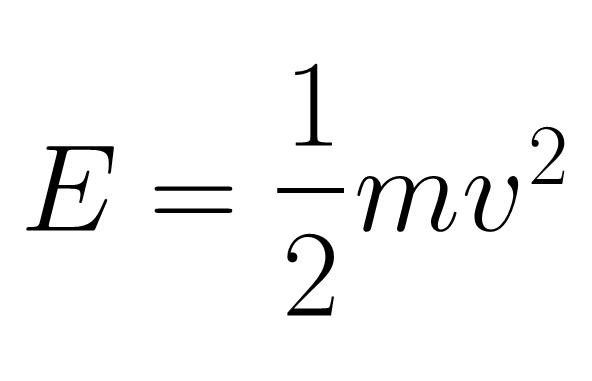
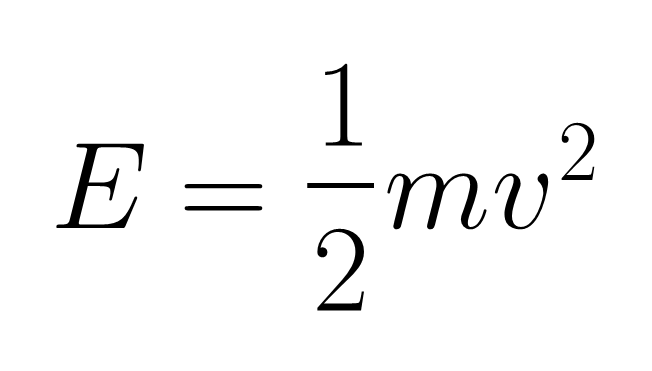
Tried to fix brackets

diff --git a/MathematicsTypesetting/PNGExporter.cs b/MathematicsTypesetting/PNGExporter.cs
@@ -92,12 +92,35 @@ namespace MathematicsTypesetting
         {
             ExportElement(graphics, bracketExpression.InnerExpression);
 
-            var w = Paths.GetBracketLength().Quantity;
+            var g1 = _fontLoader.GetGlyph("normal", "none", "(");
+            var g2 = _fontLoader.GetGlyph("normal", "none", ")");
+
+            var w = g1.Width;
             var h = bracketExpression.InnerExpression.OuterHeight;
 
-            var p1 = Paths.GetBracketPath(new PointF((float)(bracketExpression.Position.X.Quantity + w * 0.25), (float)bracketExpression.Position.Y.Quantity), (float)h.Quantity);
+            var x1 = (float)(bracketExpression.Position.X.Quantity );
+            var y1 = (float)bracketExpression.Position.Y.Quantity;
 
-            var p2 = Paths.GetBracketPath(new PointF((float)(bracketExpression.Position.X.Quantity + w * 1.75 + bracketExpression.InnerExpression.OuterWidth.Quantity), (float)bracketExpression.Position.Y.Quantity), (float)h.Quantity, ")");
+            var x2 = (float)(bracketExpression.Position.X.Quantity  + bracketExpression.InnerExpression.OuterWidth.Quantity);
+            var y2 = (float)bracketExpression.Position.Y.Quantity;
+
+            var p1 = _fontLoader.GetPathForGlyph(g1); // Paths.GetBracketPath(new PointF(, , (float)h.Quantity);
+
+            var p2 = _fontLoader.GetPathForGlyph(g2); // Paths.GetBracketPath(new PointF(, ), (float)h.Quantity, ")");
+            
+            var m1 = new System.Drawing.Drawing2D.Matrix();
+            var m2 = new System.Drawing.Drawing2D.Matrix();
+
+            var sf = (float)h.Quantity /(1.7f * 20.0f);
+
+            m1.Scale(sf, sf);
+            m1.Translate(x1 / sf, y1 / sf + 25f);
+
+            m2.Scale(sf, sf);
+            m2.Translate(x2 / sf, y2 / sf + 25f);
+
+            p1.Transform(m1);
+            p2.Transform(m2);
 
             graphics.FillPath(Brushes.Black, p1);
             graphics.FillPath(Brushes.Black, p2);

diff --git a/MathematicsTypesetting/Typesetter.cs b/MathematicsTypesetting/Typesetter.cs
@@ -17,7 +17,10 @@ namespace MathematicsTypesetting
 
         public void TypesetDocument(Document document)
         {
-            document.MainElement.OuterMargin = 20;
+            document.MainElement.OuterMargin.Top = 20;
+            document.MainElement.OuterMargin.Bottom = 20;
+            document.MainElement.OuterMargin.Left = 50;
+            document.MainElement.OuterMargin.Right = 50;
 
             SetElementSize(document.MainElement);
             SetElementPosition(new Position(), document.MainElement);

diff --git a/MathematicsTypesetting.Fonts/FontLoader.cs b/MathematicsTypesetting.Fonts/FontLoader.cs
@@ -106,7 +106,7 @@ namespace MathematicsTypesetting.Fonts
                 }
             }
 
-            return new SizeF(w, fontSize * 1.7f);
+            return new SizeF(w, fontSize * 1.65f);
         }
 
         public void SetGlyphWidth(Glyph glyph)
